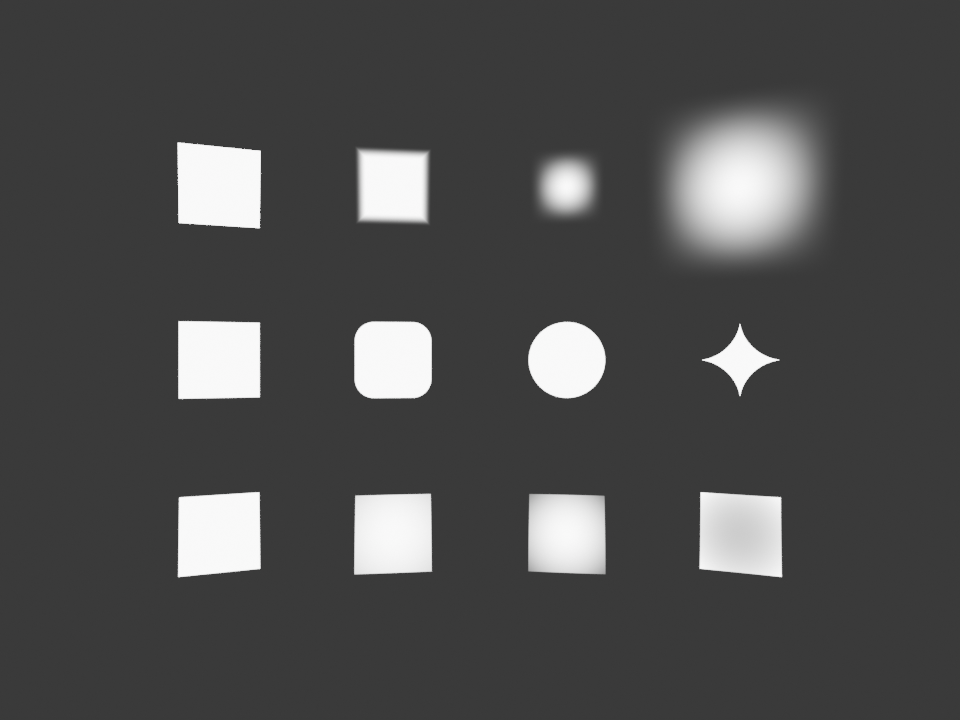
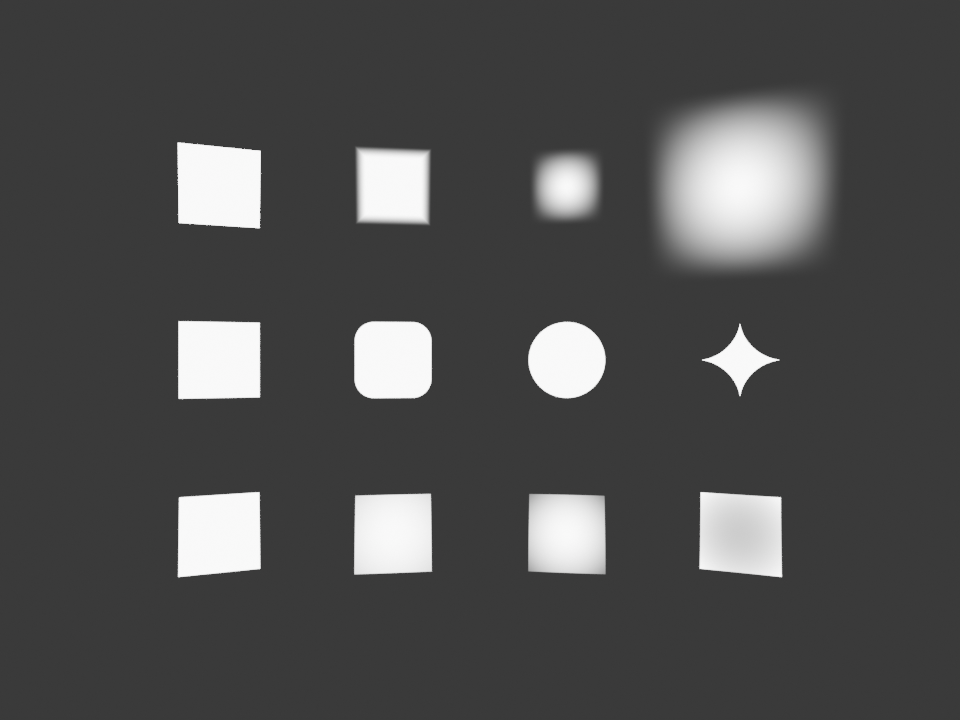
BlendLights: fix stale light textures in Cycles Rendered view
Changing only an image's pixels does not make Cycles' Rendered view
reload it, so the old texture stayed on screen while the light's size and
power were already new. Sweeping softness / roundness / falloff gave an
exaggerated look that did not come back when returning to the start
value. Each light now alternates between two texture images, tags them
for update and writes the texture together with the light's size.
Gentler slider ranges and soft edge curve; unused textures are dropped.

Claude-Session: https://claude.ai/code/session_012TsNhbY9Mca6QSkg77yrDt

diff --git a/blendlights/sync.py b/blendlights/sync.py
@@ -294,6 +294,8 @@ def _set_nodes(data, textured):
                 if link.from_node == img_node:
                     nt.links.remove(link)
             emission.inputs['Color'].default_value = (1.0, 1.0, 1.0, 1.0)
+            if img_node.image is not None:
+                img_node.image = None  # unused texture: do not keep / pack it
         return
     uv = nodes.get(UV_NODE)
     if uv is None:
@@ -315,27 +317,49 @@ def _set_nodes(data, textured):
         emission.inputs['Strength'].default_value = 1.0
 
 
+SLOTS = ("A", "B")
+SYNC_TEXTURE_PIXELS = 512 * 512  # textures up to this size update instantly
+
+
+def _slot_name(obj, slot):
+    return f".LS {obj.name} {slot}"
+
+
+def _owned(img, obj):
+    return img is not None and img.get(OWNER_KEY) == obj.name
+
+
 def texture_image(obj, res, create=True):
+    """Return (node, image to write next).
+
+    Every light has two texture images and they take turns. Cycles' Rendered
+    view does not notice an image whose pixels changed in place, so the old
+    texture stayed on screen while the light's size was already new (an
+    exaggerated, "stuck" look). Swapping the image in the node is a real
+    update that every engine picks up.
+    """
     data = obj.data
     nt = data.node_tree
     node = nt.nodes.get(IMG_NODE) if nt else None
     if node is None:
         return None, None
-    img = node.image
-    if img is not None and (img.get(OWNER_KEY) != obj.name or tuple(img.size) != (res, res)):
-        old = img
+    current = node.image
+    slot = "B" if (_owned(current, obj) and current.name == _slot_name(obj, "A")) else "A"
+    name = _slot_name(obj, slot)
+    img = bpy.data.images.get(name)
+    if img is not None and not _owned(img, obj):
         img = None
-        node.image = None
-        if old.users == 0 and old.get(OWNER_KEY) == obj.name:
-            bpy.data.images.remove(old)
+        name = None
     if img is None and create:
-        img = bpy.data.images.new(f".LS {obj.name}", res, res, alpha=False, float_buffer=True)
+        img = bpy.data.images.new(name or _slot_name(obj, slot), res, res,
+                                  alpha=False, float_buffer=True)
         img[OWNER_KEY] = obj.name
         try:
             img.colorspace_settings.name = 'Non-Color'
         except TypeError:
             pass
-        node.image = img
+    if img is not None and tuple(img.size) != (res, res):
+        img.scale(res, res)
     return node, img
 
 
@@ -344,23 +368,38 @@ def update_texture(obj, force=False):
         return
     ls = obj.light_studio
     shape = shape_data(ls)
-    textured, kx, ky, _e = _layout(ls, shape)
+    textured, kx, ky, extent = _layout(ls, shape)
     if not textured:
         _tex_keys.pop(obj.name, None)
         return
-    res = int(ls.texture_res)
-    # Very soft lights bloom far outside their outline: keep the outline sharp.
-    res = min(2048, int(res * max(1.0, _e / 1.5)) // 8 * 8)
+    res = texture_resolution(ls, extent)
+    key = (shape.key(), round(kx, 6), round(ky, 6), res)
+    nt = obj.data.node_tree
+    node = nt.nodes.get(IMG_NODE) if nt else None
+    if (not force and _tex_keys.get(obj.name) == key and node is not None
+            and _owned(node.image, obj)):
+        return
     node, img = texture_image(obj, res)
     if img is None:
-        return
-    key = (shape.key(), round(kx, 6), round(ky, 6), res, img.name)
-    if not force and _tex_keys.get(obj.name) == key:
         return
     arr = core.light_texture(shape, res, kx, ky)
     img.pixels.foreach_set(arr.ravel())
     img.update()
+    if img.packed_file is not None:
+        img.pack()  # keep the packed copy in step, it is what a reload uses
+    node.image = img
+    for idb in (img, nt, obj.data):
+        try:
+            idb.update_tag()
+        except Exception:
+            pass
     _tex_keys[obj.name] = key
+
+
+def texture_resolution(ls, extent):
+    res = int(ls.texture_res)
+    # Very soft lights bloom far outside their outline: keep the outline sharp.
+    return min(2048, int(res * max(1.0, extent / 1.5)) // 8 * 8)
 
 
 # ---------------------------------------------------------------------------
@@ -374,9 +413,19 @@ def request(obj, texture=True):
     except Exception:
         traceback.print_exc()
         return
-    if textured or texture:
-        _tex_pending.add(obj.name)
-        _start_timer()
+    if textured:
+        ls = obj.light_studio
+        _textured, _kx, _ky, extent = _layout(ls, shape_data(ls))
+        if texture_resolution(ls, extent) ** 2 <= SYNC_TEXTURE_PIXELS:
+            # Update the texture together with the light's size and power so
+            # the two never disagree on screen.
+            try:
+                update_texture(obj)
+            except Exception:
+                traceback.print_exc()
+        else:
+            _tex_pending.add(obj.name)
+            _start_timer()
     from . import overlay
     overlay.tag_redraw()
 

diff --git a/blendlights/props.py b/blendlights/props.py
@@ -125,7 +125,7 @@ class LightStudioLight(PropertyGroup):
         name="Edge Softness",
         description=("Soft edge width. 0 = hard edge, 1 = fades all the way from the centre, "
                      "above 1 the light blooms far beyond its outline (up to 10)"),
-        default=0.1, min=0.0, max=10.0, soft_max=5.0, update=_tex_changed)
+        default=0.1, min=0.0, max=10.0, soft_max=3.0, update=_tex_changed)
     roundness: FloatProperty(
         name="Roundness",
         description=("Rectangle corners: 0 = square, 0.5 = rounded corners, 1 = ellipse, "
@@ -139,7 +139,7 @@ class LightStudioLight(PropertyGroup):
         description=("Brightness change from the centre to the edge, in stops. "
                      "+3 = edge 3 stops (8x) darker (hot spot), -3 = centre 3 stops darker "
                      "(bright rim)"),
-        default=0.0, min=-12.0, max=20.0, soft_min=-6.0, soft_max=10.0, update=_tex_changed)
+        default=0.0, min=-12.0, max=20.0, soft_min=-4.0, soft_max=8.0, update=_tex_changed)
 
     # Gradient ---------------------------------------------------------------
     gradient_type: EnumProperty(

diff --git a/blendlights/__init__.py b/blendlights/__init__.py
@@ -9,7 +9,7 @@ centre falloff, gradients and image textures (Cycles light node textures).
 bl_info = {
     "name": "BlendLights - Physical Light Studio",
     "author": "BlendHDRi contributors",
-    "version": (0, 2, 0),
+    "version": (0, 2, 1),
     "blender": (4, 2, 0),
     "location": "3D View > Sidebar (N) > Light Studio",
     "description": "Studio control of physical lights: LightPaint, softness, gradients, textures",

diff --git a/blendlights/core.py b/blendlights/core.py
@@ -188,7 +188,7 @@ class ShapeData:
 BLOOM_PER_UNIT = 0.75
 # Soft edges and centre falloff are shaped in photographic stops, so they stay
 # visible on bright lights (a linear fade is mostly clipped to white on screen).
-SOFT_STOPS = 7.0
+SOFT_STOPS = 5.0
 
 OCT_ANGLES = [k * math.pi / 4.0 + math.pi / 8.0 for k in range(8)]
 OCT_NORM = 1.0 / math.cos(math.pi / 8.0)
